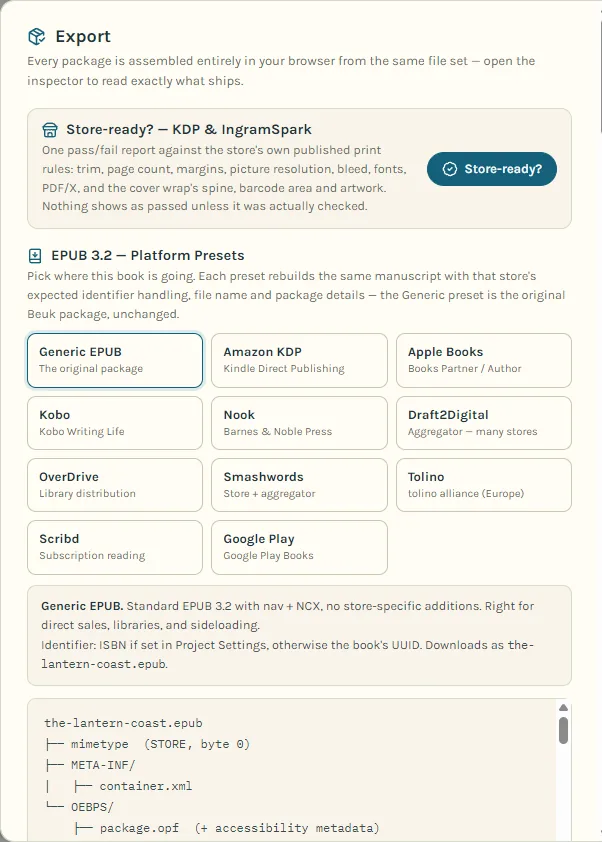
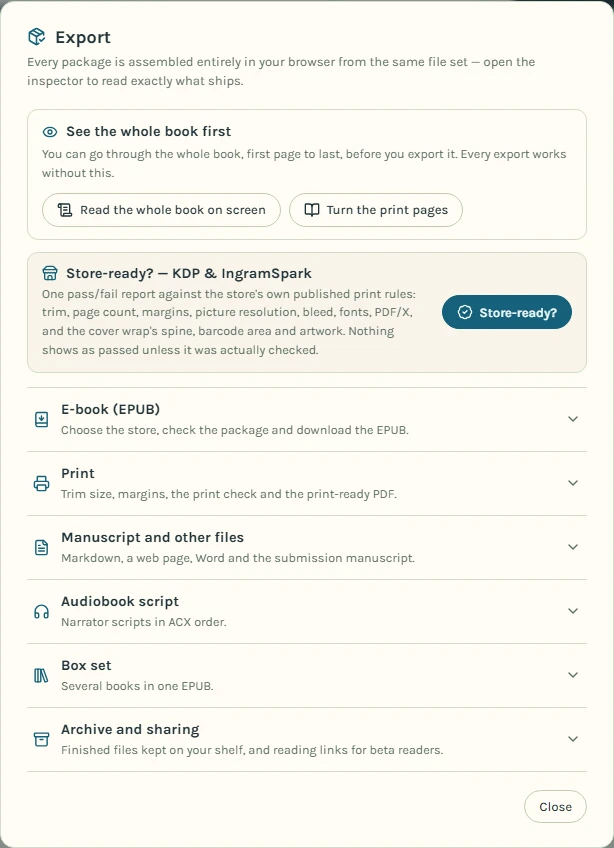
Features page: the Export picture retaken from the grouped screen
The picture and its words showed the export screen as it was before
2026-11-24: one long column that began with the store presets. Retaken
from the production build with The Lantern Coast open, as the screen
opens: the offer to see the whole book, Store-ready?, six closed groups.

- client/site/shots/export.webp: 614 x 848 (was 602 x 842).
- features.html: the picture's size, alt text and caption follow it, and
  one paragraph says what the offer is.
- README.md: the same picture's alt text and caption.

Claude-Session: https://claude.ai/code/session_01GatpgiHqoF3PXHks1NV5NV

diff --git a/client/site/features.html b/client/site/features.html
@@ -148,14 +148,15 @@
             <h2 id="h-export">Check it, then export it for each store</h2>
             <p><b>Eleven EPUB presets</b>: Amazon KDP, Apple Books, Kobo, Nook, Draft2Digital, OverDrive, Smashwords, Tolino, Scribd, Google Play and a generic EPUB. Each rebuilds the same book with what that store expects.</p>
             <p><b>Store-ready?</b> gives one pass/fail report against KDP's or IngramSpark's own published print rules, and nothing is marked as passed unless it was actually checked. The checks that read the server-made PDF/X file, such as embedded fonts, need Beuk's server; in the browser alone they show as not checked. The package inspector shows exactly which files go into your EPUB.</p>
+            <p><b>See the whole book first.</b> Export opens with an offer: read the whole book on screen, first page to last, or turn its print pages. Every export works without it.</p>
             <p>The same dialog also exports Markdown, HTML and DOCX, a submission manuscript in standard manuscript format, a box set that combines several books in one EPUB, and narrator scripts for an ACX audiobook. The Word file, the submission manuscript and the print-ready PDF can be downloaded locked with a password.</p>
             <ul class="checks"><li>11 store presets</li><li>Store-ready? report</li><li>Markdown / HTML / DOCX</li><li>Box sets</li></ul>
           </div>
           <figure class="shot narrow">
             <div class="shot-frame"><div class="shot-bar"><i></i><i></i><i></i><span>Export</span></div>
-              <img src="/site/shots/export.webp" width="602" height="842" loading="lazy" decoding="async" alt="The Export dialog: a Store-ready? check for KDP and IngramSpark at the top, then EPUB 3.2 platform presets as a grid of buttons, from Generic EPUB and Amazon KDP to Scribd and Google Play, and the start of the EPUB's file list." />
+              <img src="/site/shots/export.webp" width="614" height="848" loading="lazy" decoding="async" alt="The Export dialog as it opens. At the top, See the whole book first, with two buttons: Read the whole book on screen, and Turn the print pages. Under it, a Store-ready? check for KDP and IngramSpark. Then six closed groups: E-book (EPUB), Print, Manuscript and other files, Audiobook script, Box set, and Archive and sharing." />
             </div>
-            <figcaption>The export dialog and its store presets.</figcaption>
+            <figcaption>The export dialog as it opens: the whole book first, then the formats in six groups.</figcaption>
           </figure>
         </section>
 

diff --git a/README.md b/README.md
@@ -44,11 +44,11 @@ Write in plain text with light marks; the preview page-turns the typeset result 
   </tr>
   <tr>
     <td><img src="client/site/shots/insights.webp" alt="Story Insights: chapter rhythm, cadence, dialogue share, crutch words, names on stage"></td>
-    <td><img src="client/site/shots/export.webp" alt="Export dialog with store presets and the Store-ready report"></td>
+    <td><img src="client/site/shots/export.webp" alt="Export dialog as it opens: the offer to read the whole book first, the Store-ready report, and the formats in six groups"></td>
   </tr>
   <tr>
     <td align="center"><sub><strong>Story Insights</strong> — rhythm, cadence, dialogue share, crutch words, echoes, a heatmap of the names your book keeps returning to. Computed on your device, never guessed.</sub></td>
-    <td align="center"><sub><strong>Export</strong> — store presets for EPUB, print, Word, Markdown, ACX, and the Store-ready? pass/fail report.</sub></td>
+    <td align="center"><sub><strong>Export</strong> — the whole book to read first, then store presets for EPUB, print, Word, Markdown, ACX, and the Store-ready? pass/fail report.</sub></td>
   </tr>
 </table>
 
